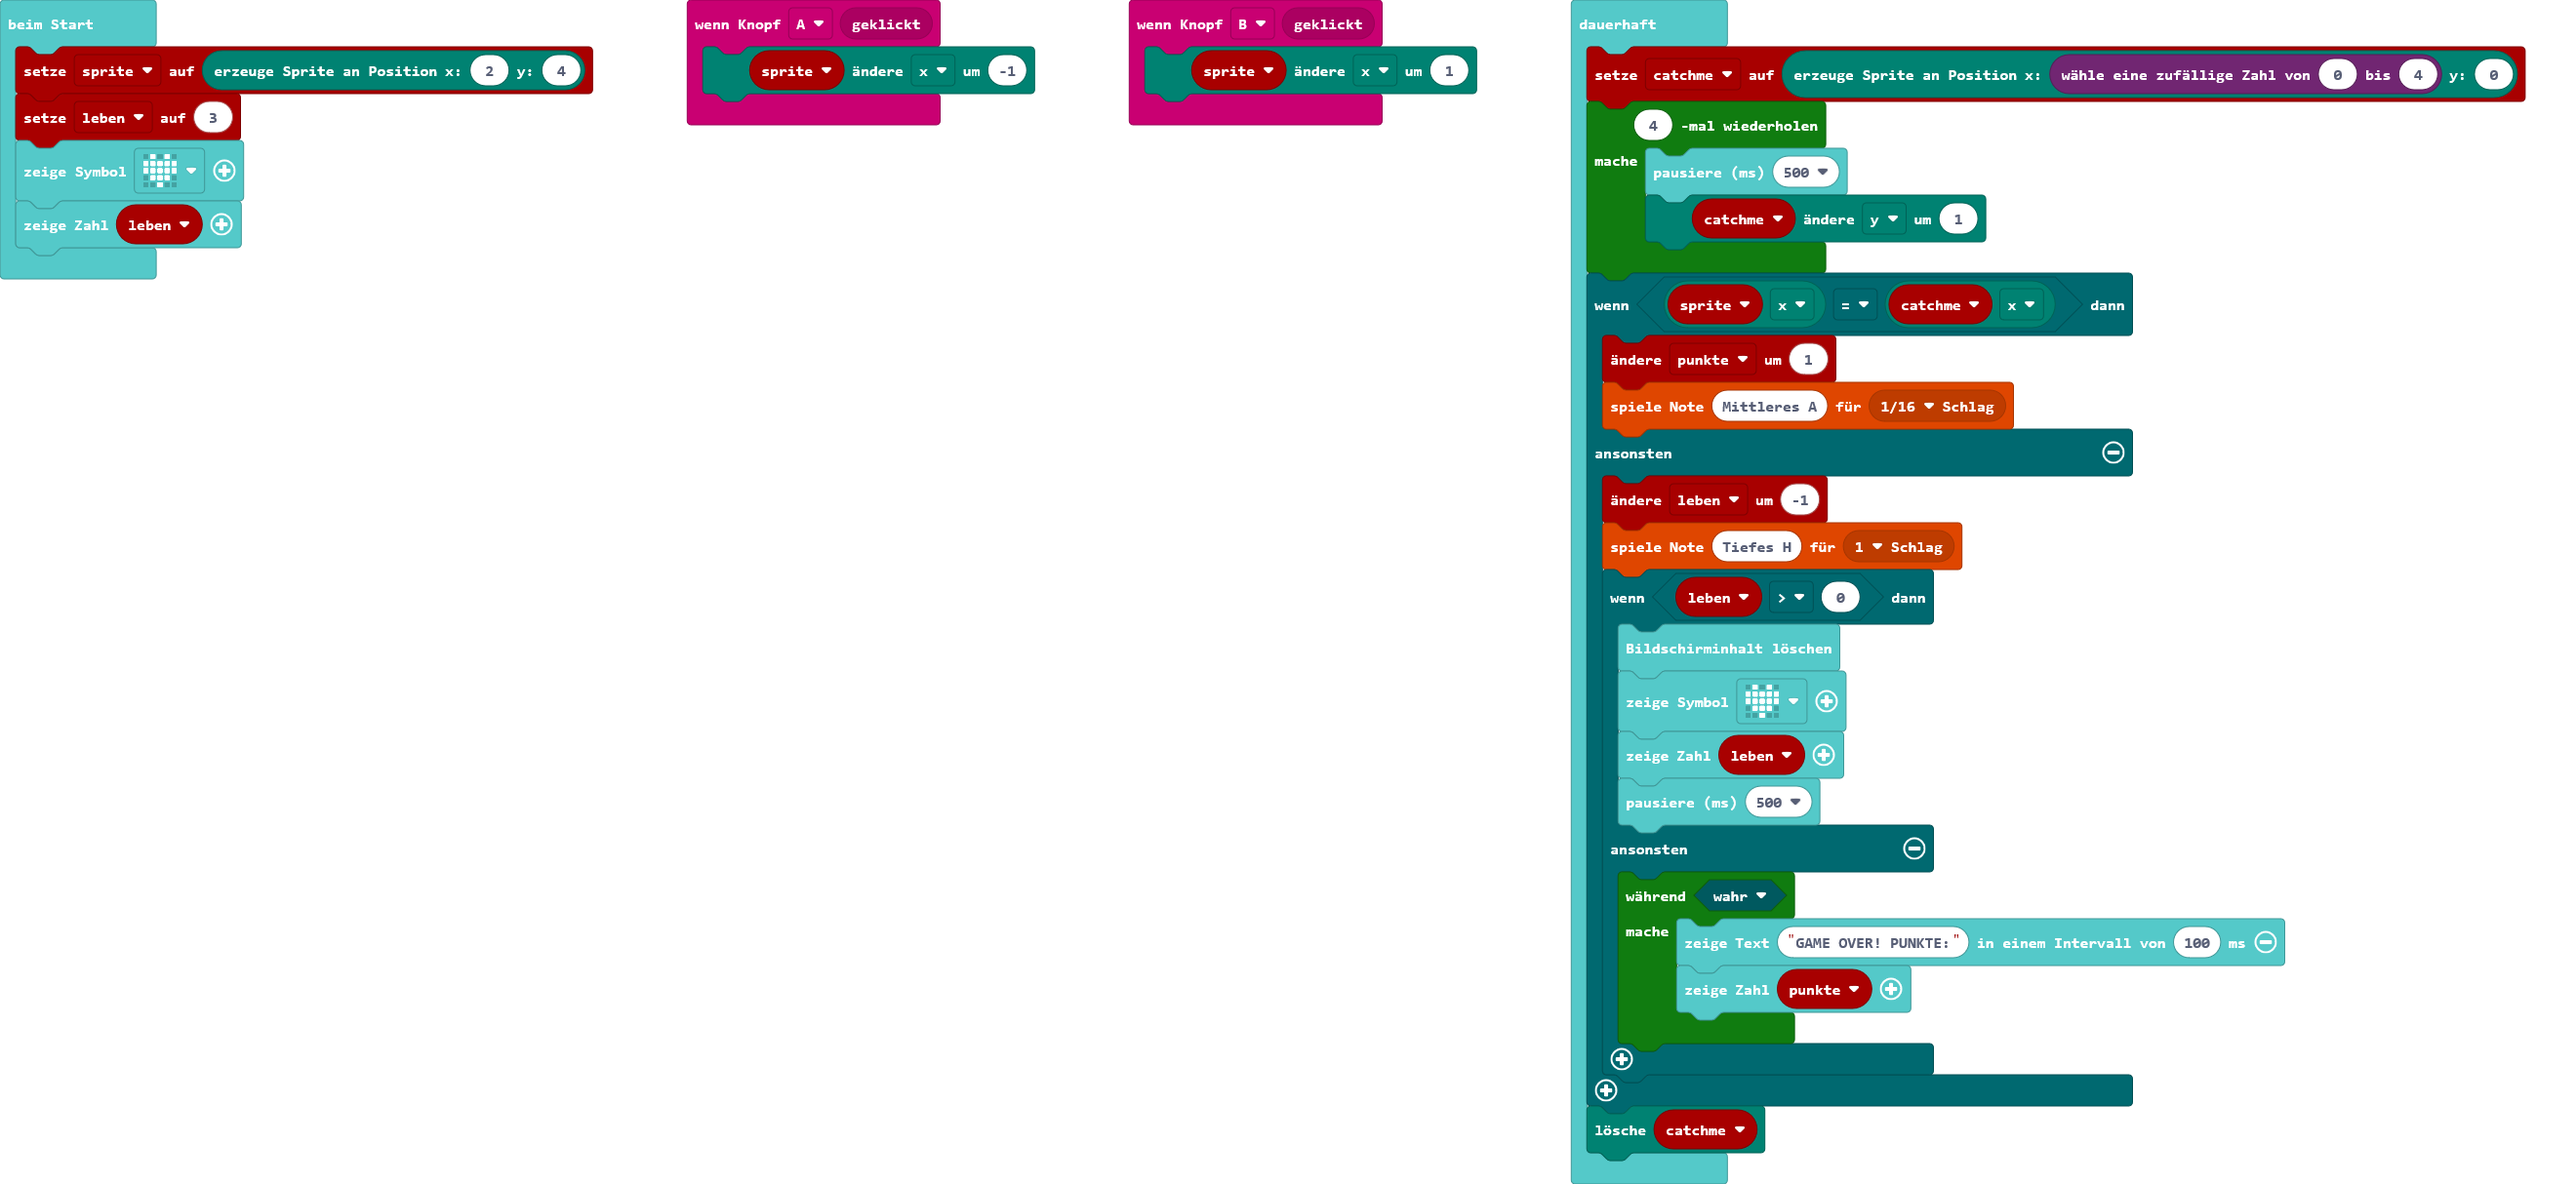
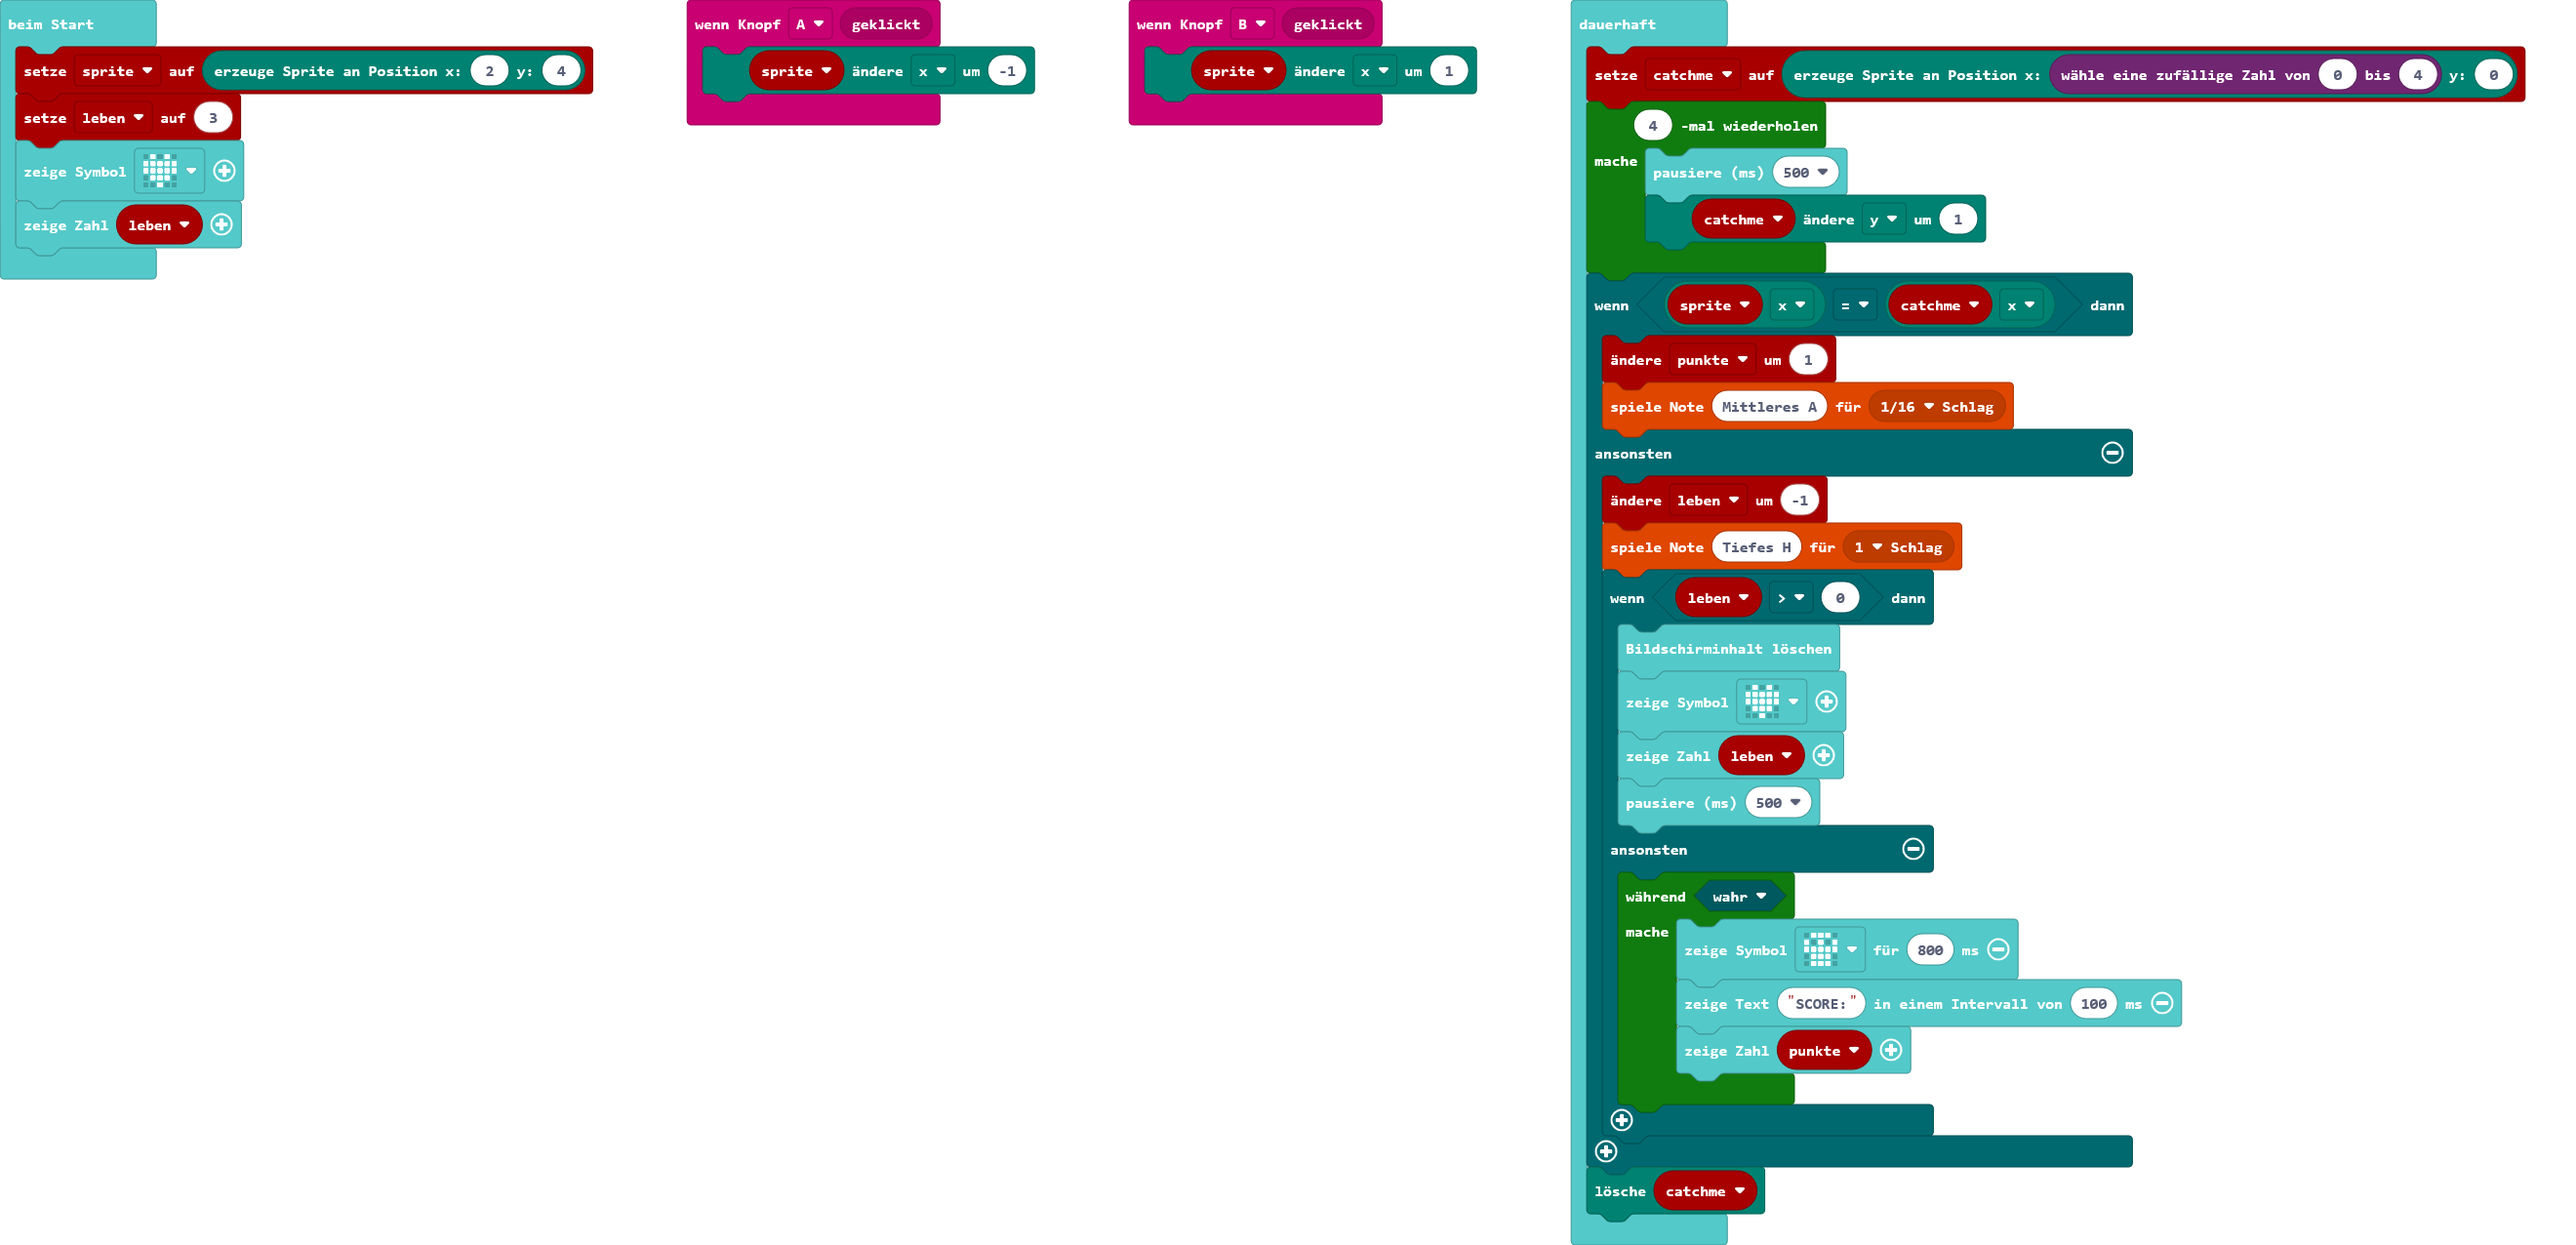
skull symbol

diff --git a/main.ts b/main.ts
@@ -30,7 +30,8 @@ basic.forever(function () {
             basic.pause(500)
         } else {
             while (true) {
-                basic.showString("GAME OVER! PUNKTE:", 100)
+                basic.showIcon(IconNames.Skull, 800)
+                basic.showString("SCORE:", 100)
                 basic.showNumber(punkte)
             }
         }
